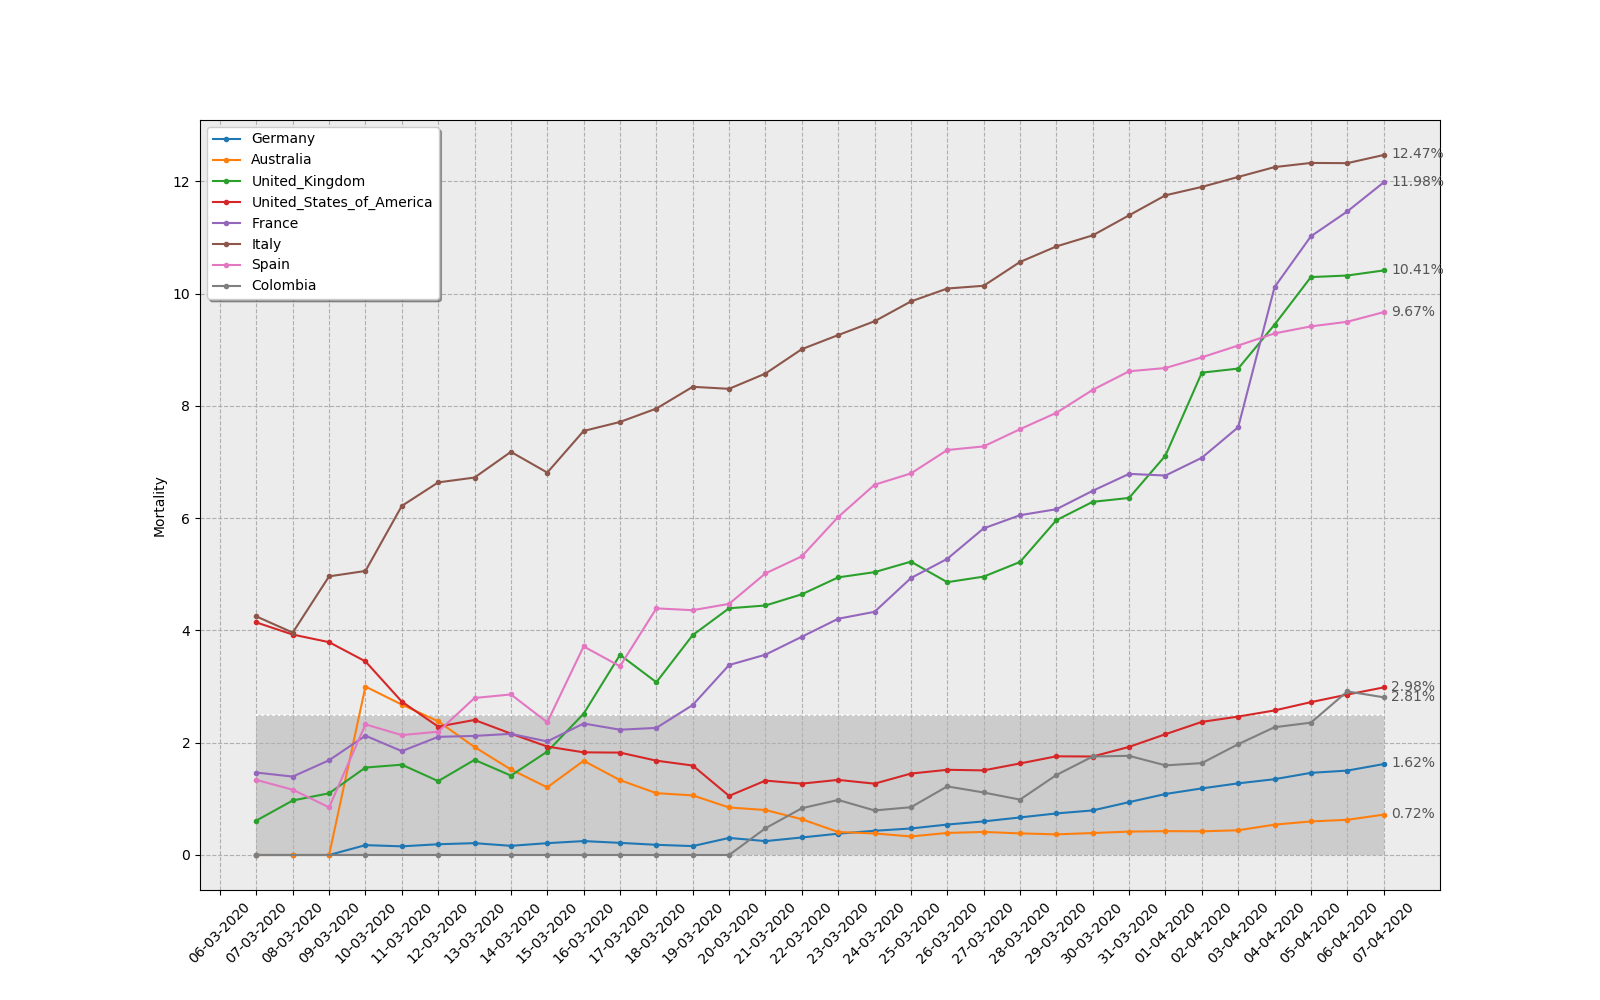
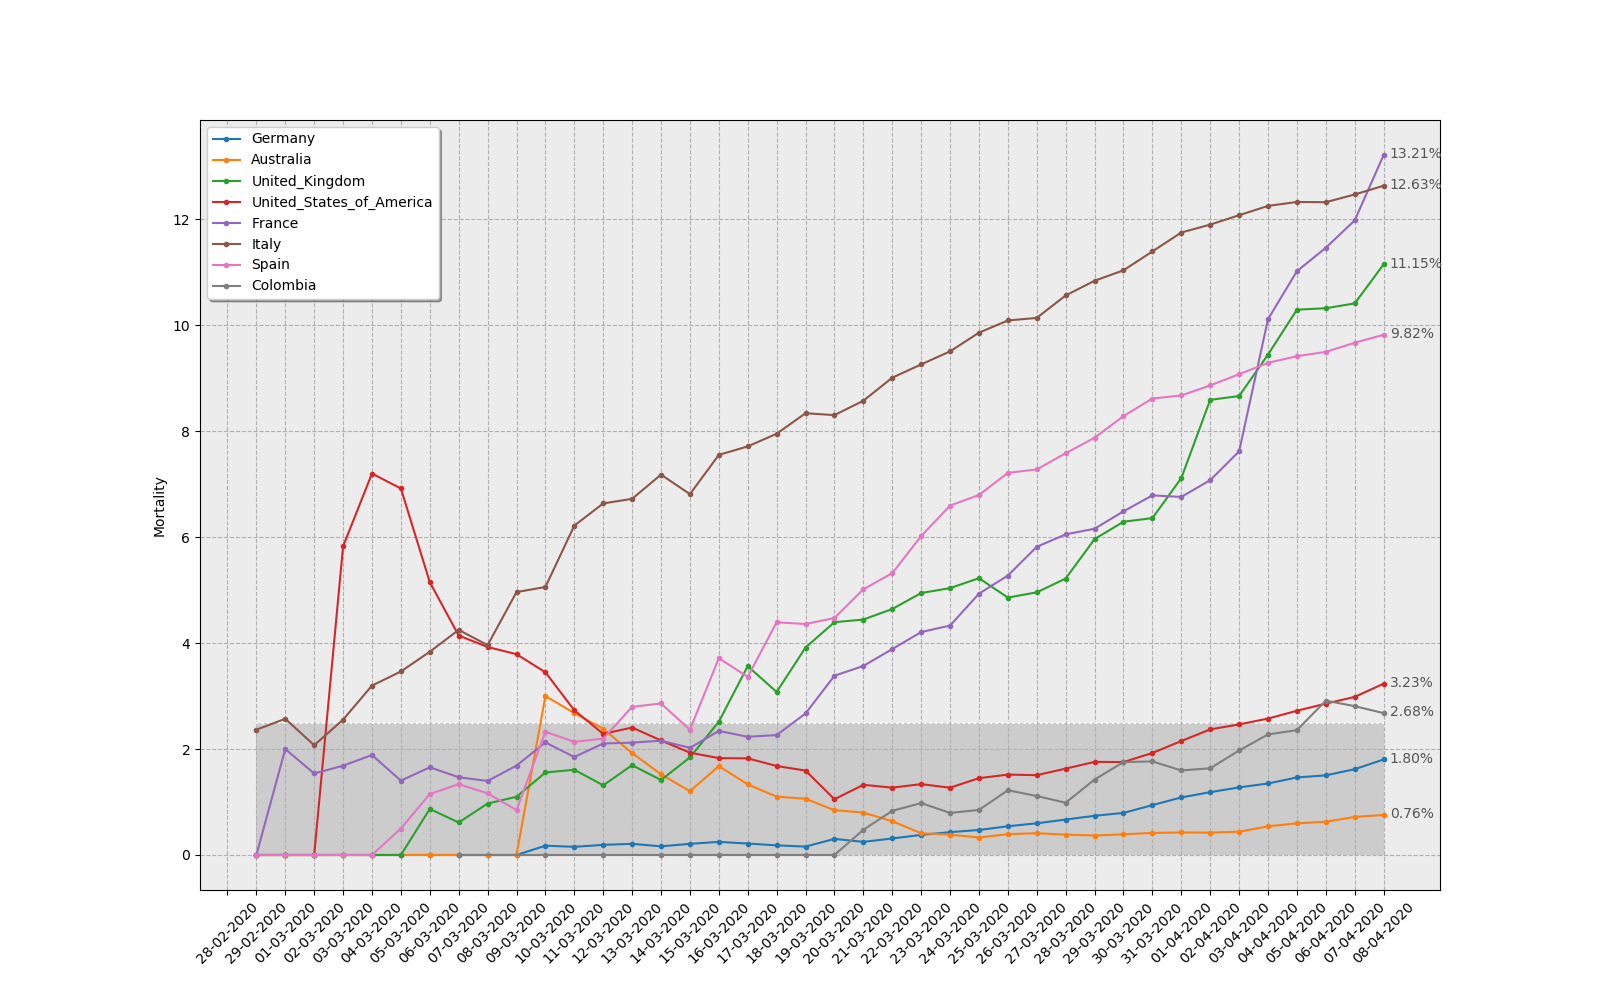
updated 04/08/2020

diff --git a/covid19.py b/covid19.py
@@ -17,7 +17,7 @@ countries = ['Colombia',
              'Australia',
              'Germany']
 
-vis = 32 # Plot last 'vis' days (default=40)
+vis = 40 # Plot last 'vis' days (default=40)
 dpi = 100 # PNG image saving dpi
 
 today = date.today()
